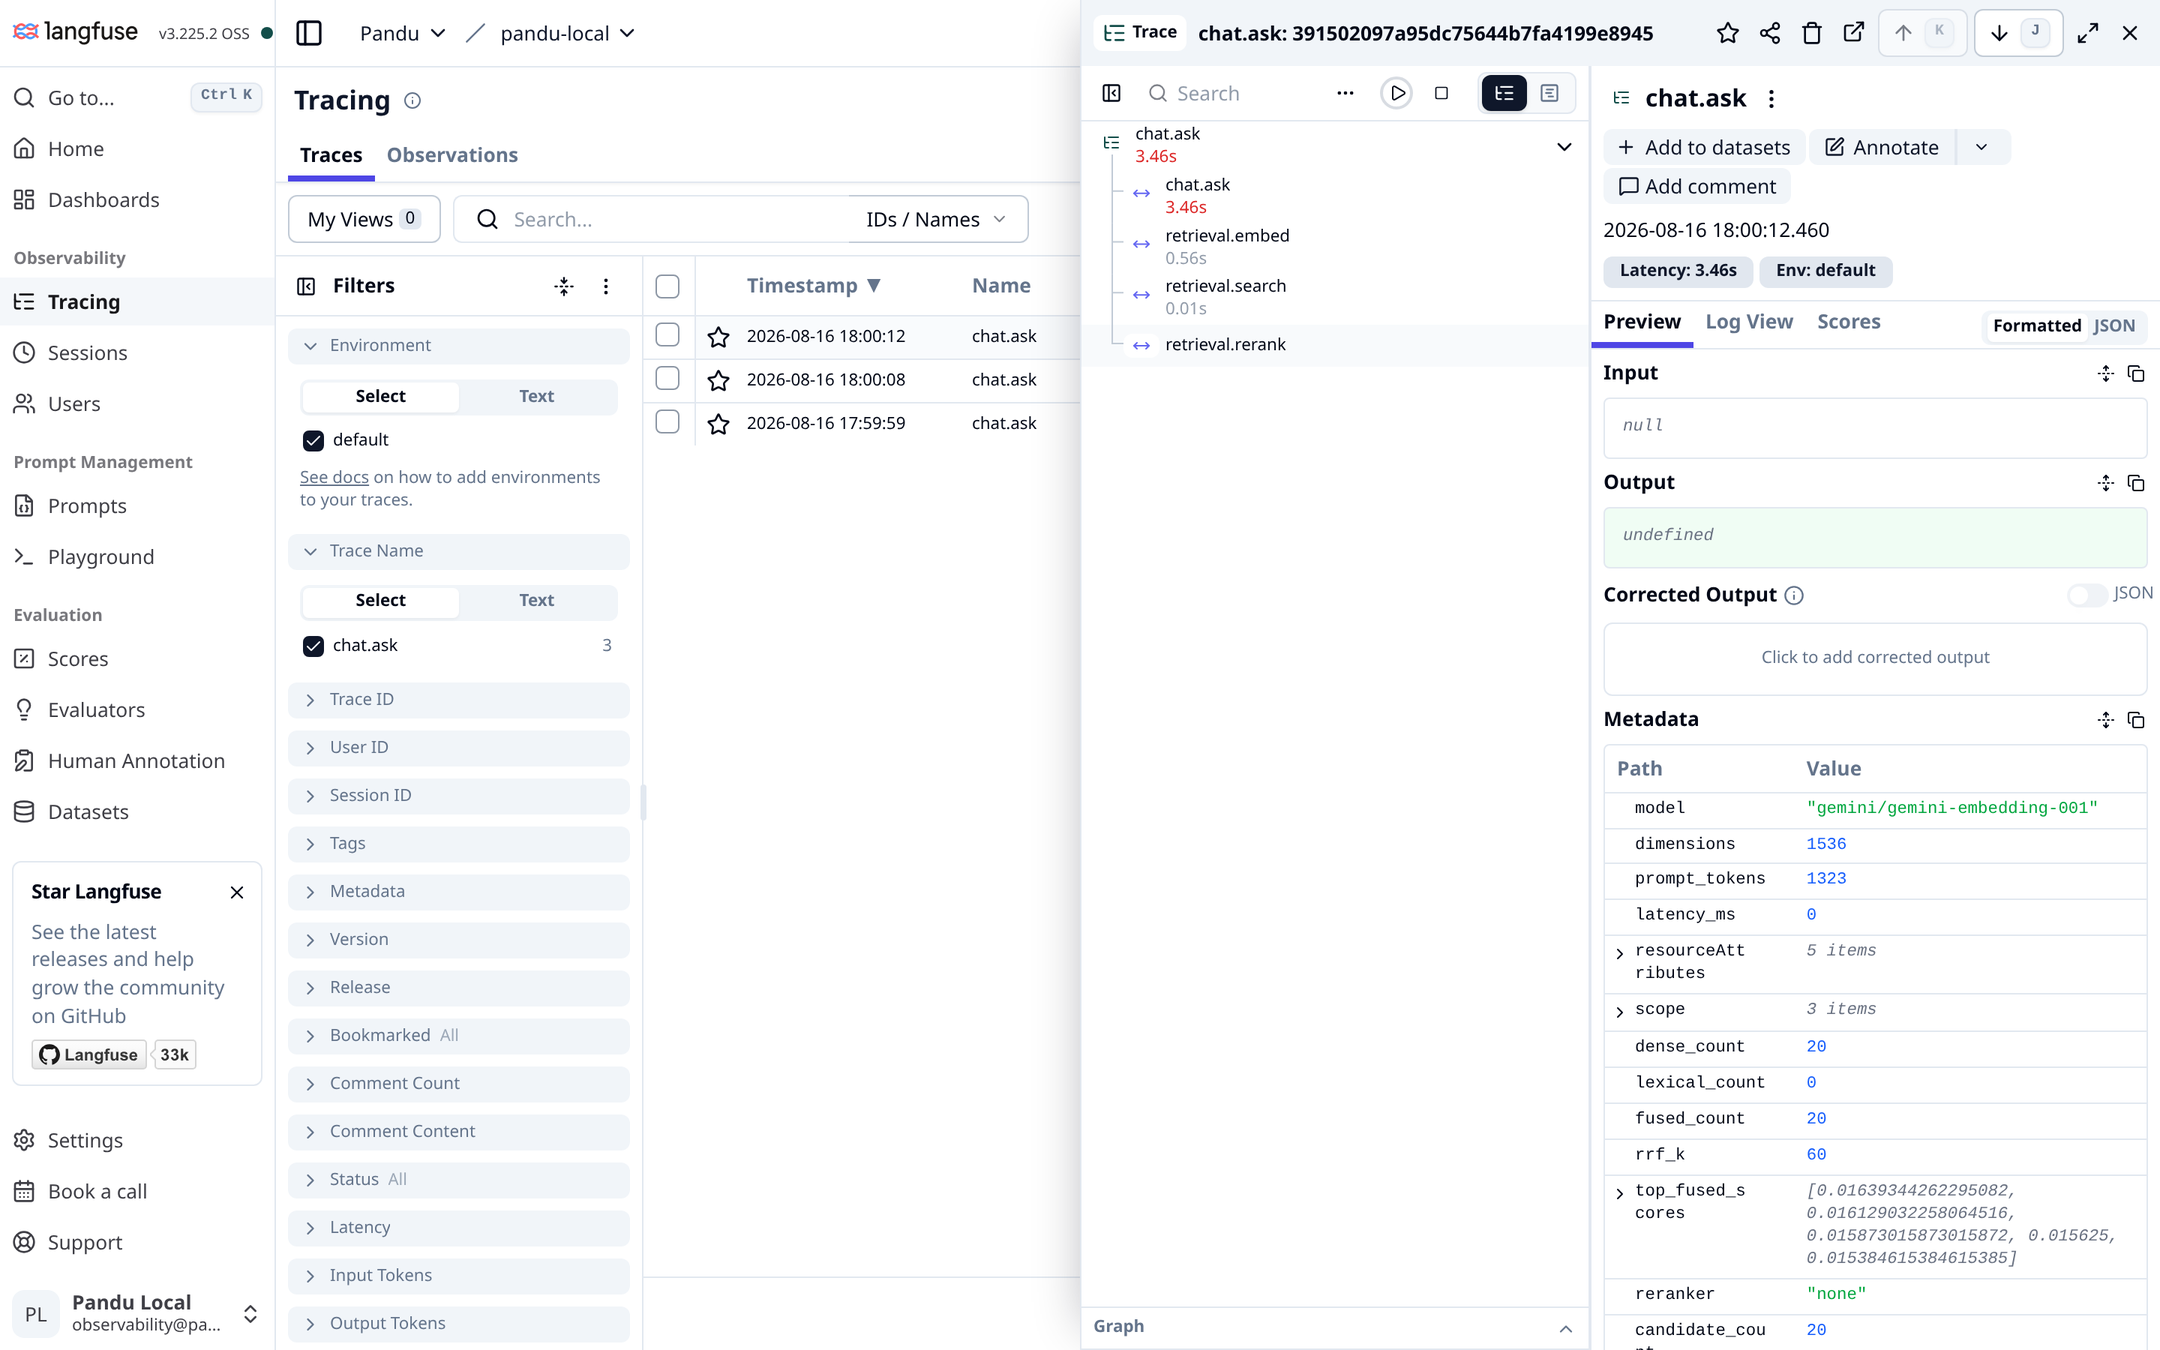
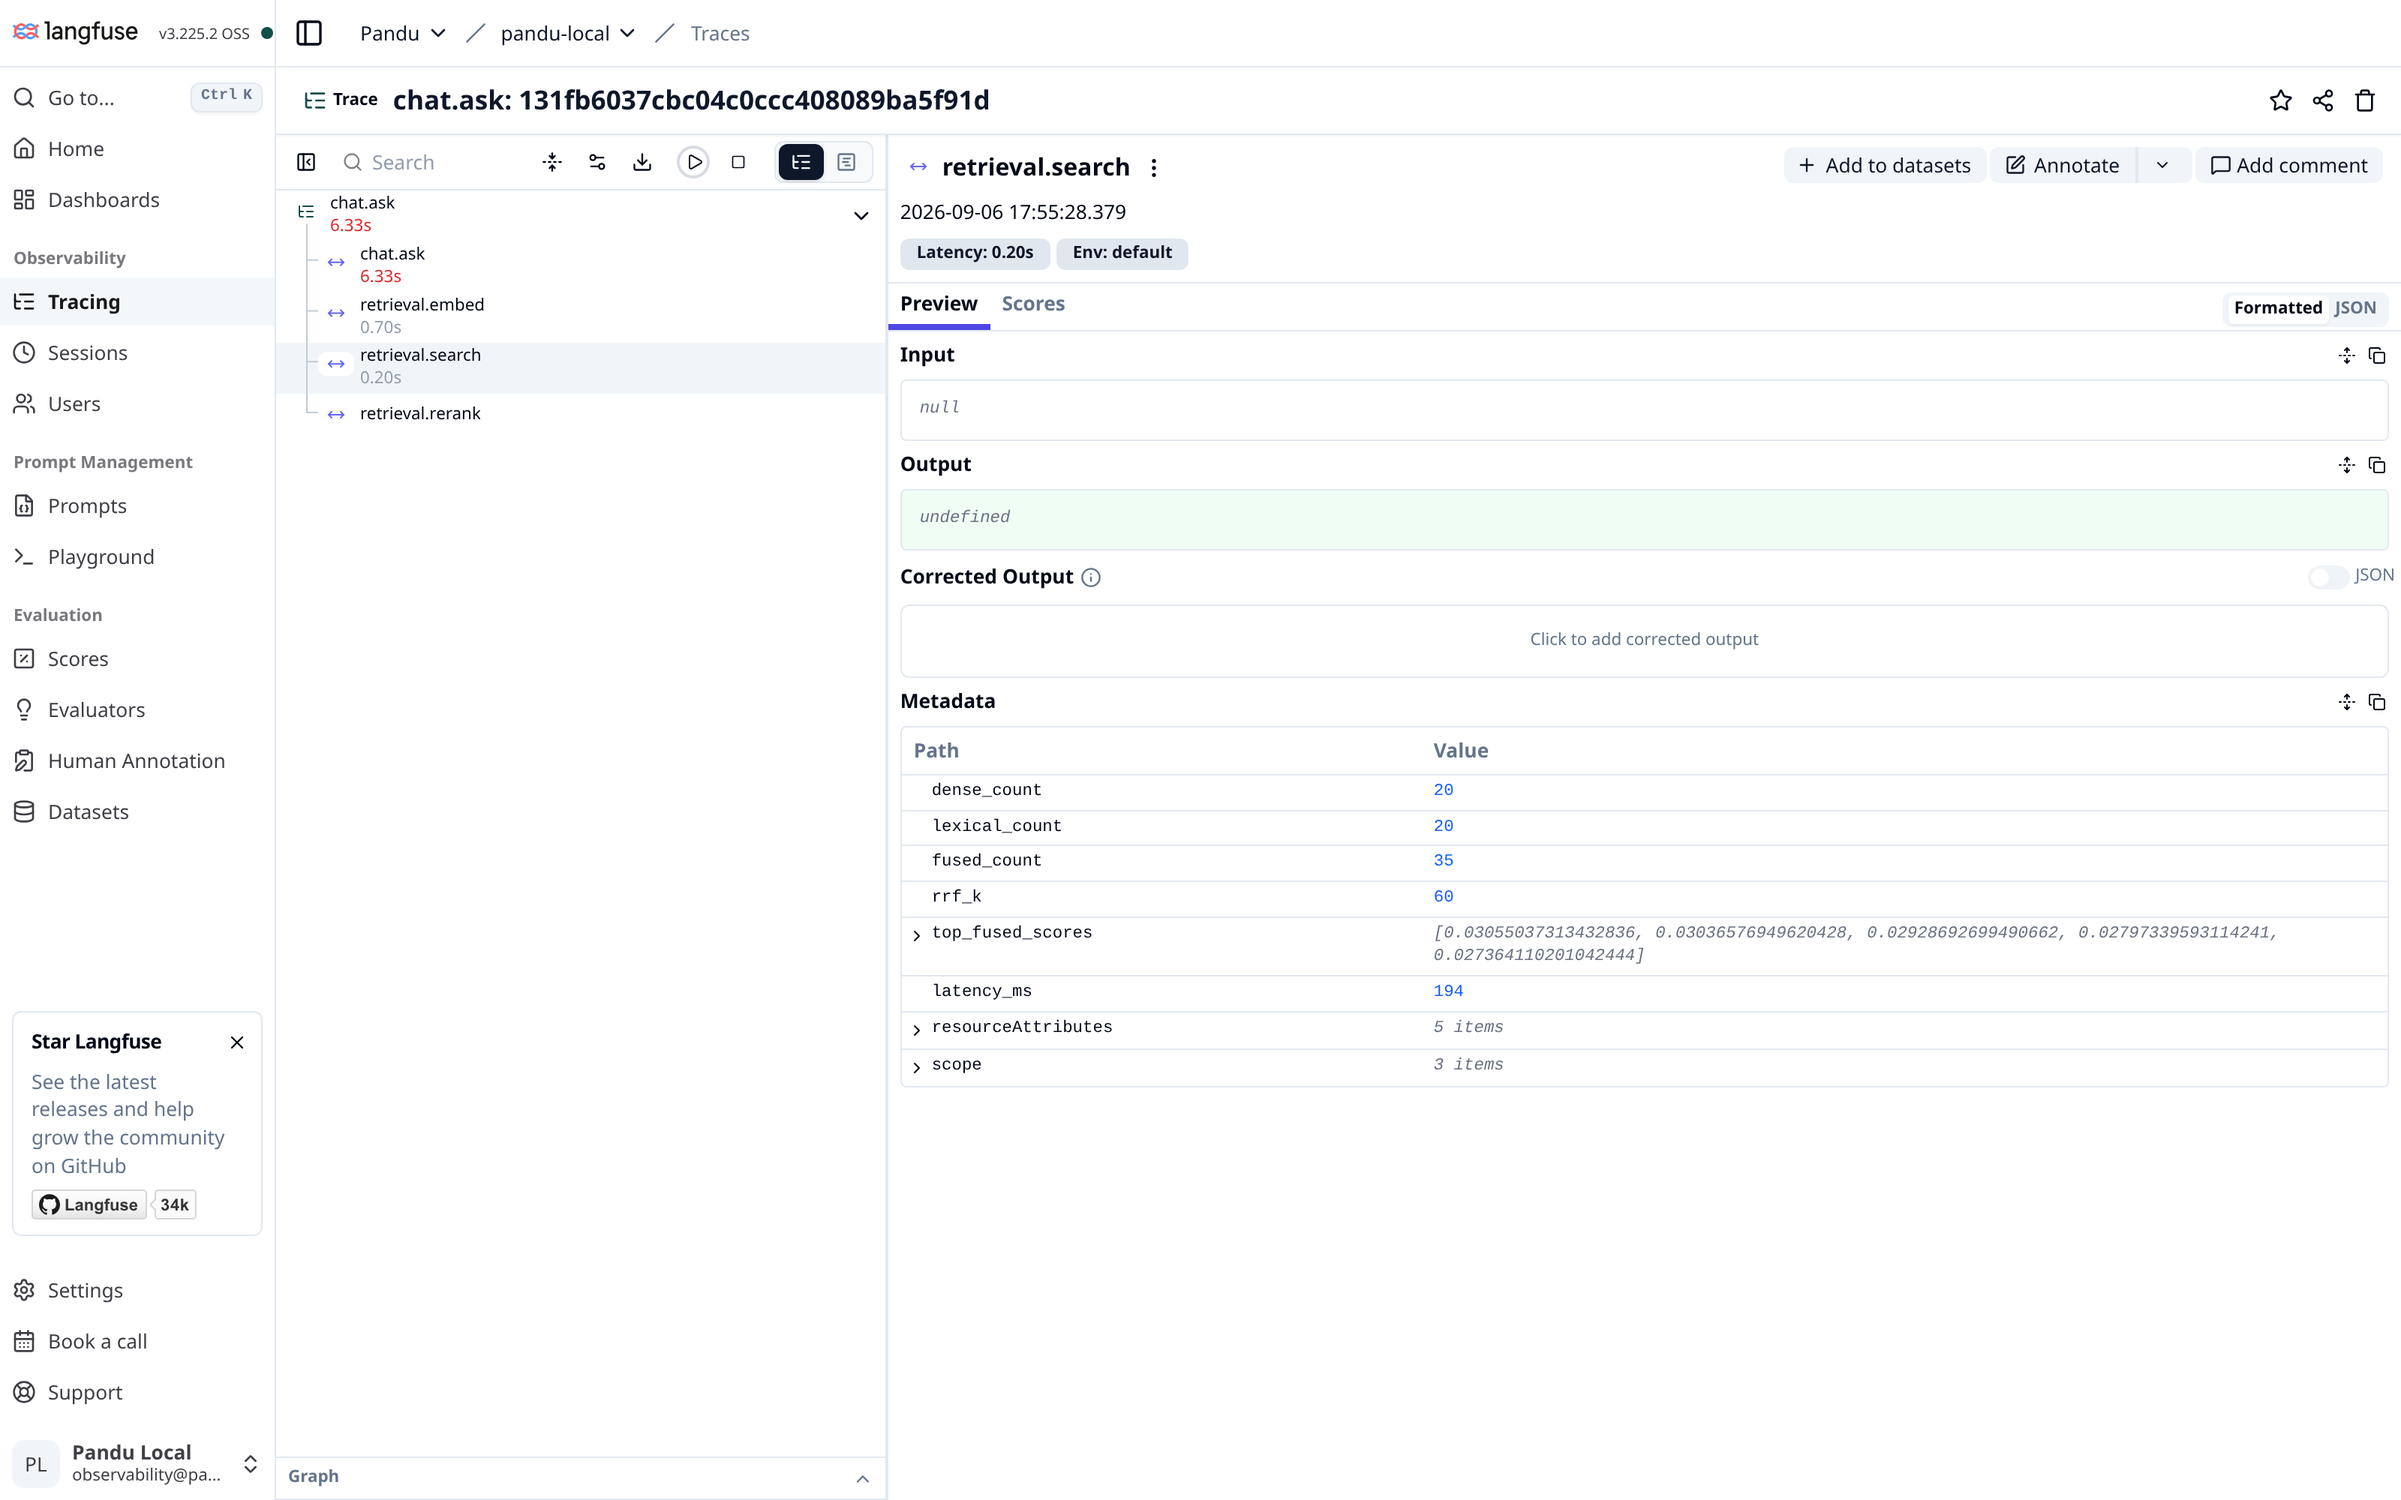
docs: three observability screenshots, one of which was publishing the bug
The observability capture was from 2026-08-16 and, read properly, contains the
ADR-015 bug in plain sight: its metadata panel shows `lexical_count: 0` next to
`dense_count: 20`. The trace had been publishing the dead lexical arm in this
README for three weeks.

Recaptured against a live Langfuse v3 stack from a real traced chat request,
and split into three spans because each answers a different question:

- retrieval.search: dense_count 20, lexical_count 20, fused_count 35. The
  fused count is the interesting one — 40 candidates deduplicating to 35 means
  five chunks were found by both arms, which is the agreement RRF exists to
  reward and which could not happen at all while one arm returned nothing.
- retrieval.embed: model, vector width and latency per request, so a provider
  swap behind the EmbeddingProvider port shows up in the trace instead of being
  inferred from config.
- chat.ask (root): retrieved 5, prompt/completion tokens, latency, and
  invalid_citation_count 0 / citation_validity 1 — ADR-014's deterministic
  check surfacing as trace data rather than as a prompt instruction.

The privacy claim is unchanged and now stated once for all three: input and
output are empty by design, and costs live in Pandu's own metering ledger, not
the tracing backend.

ARCHITECTURE_REVIEW gains the sharper version of the lesson. The section on
the silent lexical arm already argued for keeping per-arm provenance on every
[…]

diff --git a/README.md b/README.md
@@ -58,15 +58,48 @@ is the real history: the August `golden_v1` runs (MRR 0.822) and the September
 `recall_at_k 0.967`), plus the abstention row where
 `false_abstention_rate 0.267 ↓` replaced the earlier 0.400.*
 
-![Langfuse trace of a chat request — span waterfall and retrieval metadata](assets/observability.png)
+The same request in the self-hosted Langfuse (v3 on ClickHouse,
+`docker compose --profile observability up`) — one `chat.ask` trace, the
+`retrieval.embed → search → rerank` span waterfall, and three spans worth
+opening because each answers a different question about the request.
 
-*The same request in the self-hosted Langfuse (v3 on ClickHouse,
-`docker compose --profile observability up`): one `chat.ask` trace with the
-`retrieval.embed → search → rerank` span waterfall. The metadata panel shows
-what the tracer is allowed to record — model ids, candidate counts, RRF
-constant, latencies. Input/output are empty by design: prompt and document
-text never leave the app, and token costs live in Pandu's own metering
-ledger (dashboard above), not the tracing backend.*
+**`retrieval.search` — did both arms actually retrieve?**
+
+![Langfuse retrieval.search span showing dense_count 20, lexical_count 20, fused_count 35](assets/observability.png)
+
+*`dense_count: 20`, `lexical_count: 20`, `fused_count: 35` — 40 candidates
+deduplicating to 35 means five chunks were found by **both** arms, which is
+exactly the agreement RRF rewards. This panel is also where the ADR-015 bug was
+visible the whole time: the previous version of this screenshot, taken in
+August and shipped in this README, reads `lexical_count: 0` next to
+`dense_count: 20`. The trace was publishing the dead arm for three weeks and
+nobody read it — the argument for tracing per-arm provenance, and for actually
+looking at it.*
+
+**`retrieval.embed` — which model, at what cost?**
+
+![Langfuse retrieval.embed span showing the embedding model and dimensions](assets/observability-embed.png)
+
+*The embedding model and vector width are recorded per request
+(`gemini/gemini-embedding-001`, 1536 dims, 701 ms), so a provider swap through
+the `EmbeddingProvider` port is visible in the trace rather than inferred from
+config. `prompt_tokens: 0` because this provider does not meter query
+embeddings.*
+
+**`chat.ask` — what reached the model, and were the citations real?**
+
+![Langfuse chat.ask root span showing tokens, latency and citation validity](assets/observability-generation.png)
+
+*`retrieved: 5`, `prompt_tokens: 2475`, `completion_tokens: 650`,
+`latency_ms: 5404` — and `invalid_citation_count: 0` / `citation_validity: 1`,
+which is [ADR-014](docs/adr/ADR-014-citation-validation-is-code.md)'s
+deterministic check surfacing as trace data. Citation validity is computed in
+code and counted onto the trace, not requested in a prompt and hoped for.*
+
+Across all three: **input and output are empty by design.** Prompt and document
+text never leave the app, and token costs live in Pandu's own metering ledger
+(dashboard above), not the tracing backend. What the tracer is allowed to record
+is model ids, counts, and latencies — nothing that carries corpus content.
 
 ## Why this repo looks the way it does
 

diff --git a/ARCHITECTURE_REVIEW.md b/ARCHITECTURE_REVIEW.md
@@ -423,10 +423,20 @@ single aggregate score was hiding:
   (`lexical_rank=None` on every candidate) instead of the mean — which is the
   argument for keeping `dense_rank` / `lexical_rank` on every fused candidate
   rather than just the fused score.
+
+  The sharper version of the lesson: the evidence was *already published*. The
+  Langfuse `retrieval.search` span records `dense_count` and `lexical_count`
+  per request, and the observability screenshot committed to the README in
+  August shows `lexical_count: 0` sitting next to `dense_count: 20`. Tracing
+  the right field is not the hard part — the instrumentation was correct and
+  had been correct all along. Reading it is. Instrumentation nobody looks at
+  is a strictly more expensive way to not know something.
 - The first abstention run scored `abstention_recall = 1.000` *and*
   `false_abstention_rate = 0.400` — the system declines all 5 negatives and
   also refuses 6 of 15 answerable questions. A single combined score would
-  have called that flawless.
+  have called that flawless. (After the ADR-015 lexical fix this improved to
+  `0.267` — 4 of 15 — because better-ranked context gives the model less
+  reason to refuse. Faithfulness, measured the same day, did not follow.)
 - The Qdrant adapter exists, off by default, proving the `SearchIndex` port
   ([ADR-013](docs/adr/ADR-013-optional-qdrant-adapter.md)).
 - Two bugs found along the way: the OpenAI adapter inherited an ambient
